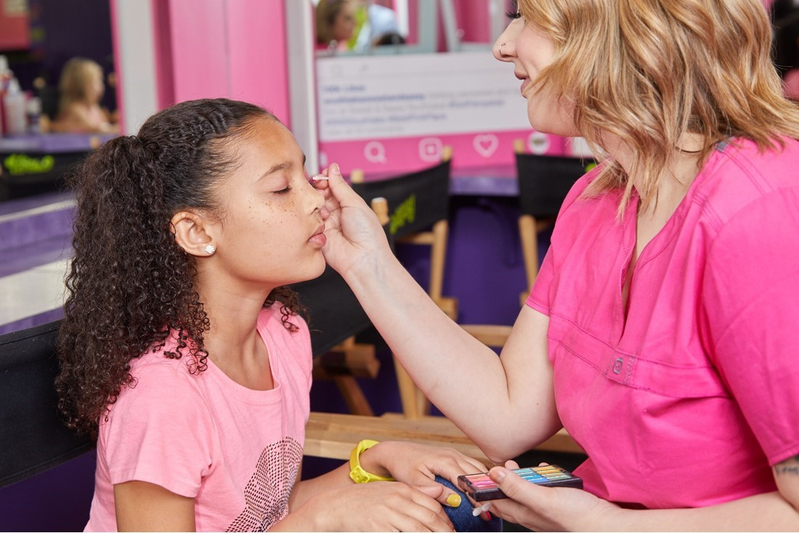
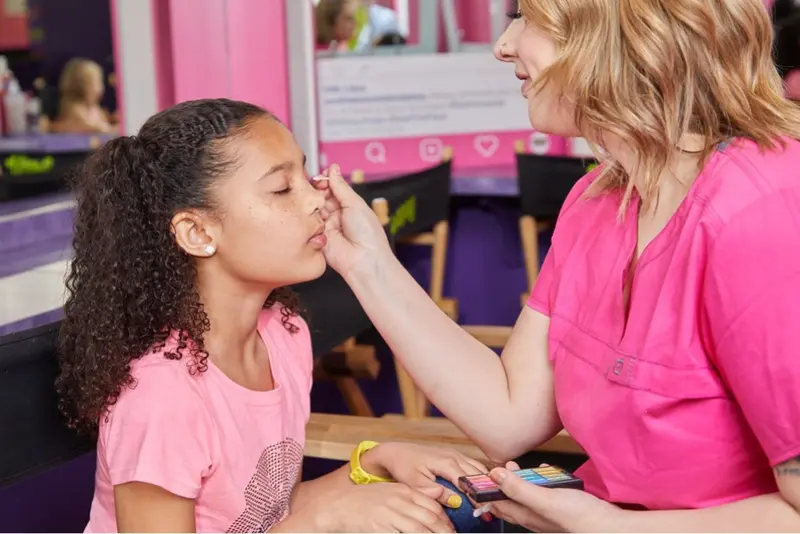
Comprehensive SEO overhaul for production launch
- Add sitemap.xml with all 6 pages
- Add robots.txt with sitemap reference
- Add custom 404.html with redirects for old Wix/legacy URLs
- Add LocalBusiness JSON-LD structured data to homepage (packages, contact, area)
- Add FAQPage JSON-LD structured data to FAQ page (all 8 Q&As)
- Add canonical URLs to all pages
- Add Open Graph tags to packages, treatments, faq, and contact pages
- Trim meta descriptions to under 160 chars on index, about, and treatments
- Compress oversized images (hair-styles 604KB→60KB, makeup 432KB→35KB)

diff --git a/404.html b/404.html
@@ -1,0 +1,104 @@
+<!DOCTYPE html>
+<html lang="en">
+<head>
+  <meta charset="UTF-8">
+  <meta name="viewport" content="width=device-width, initial-scale=1.0">
+  <title>Page Not Found | SPAH — Spa Parties at Home</title>
+  <link rel="preconnect" href="https://fonts.googleapis.com">
+  <link rel="preconnect" href="https://fonts.gstatic.com" crossorigin>
+  <link href="https://fonts.googleapis.com/css2?family=DM+Sans:wght@400;500;600;700&family=Playfair+Display:ital,wght@0,400;0,600;0,700;1,400;1,600;1,700&display=swap" rel="stylesheet">
+  <link rel="stylesheet" href="/css/style.css">
+  <script>
+    // Redirect old Wix and legacy URLs to new pages
+    var redirects = {
+      '/about-spah': '/about.html',
+      '/party-packages': '/packages.html',
+      '/spah-treatments': '/treatments.html',
+      '/spah-crafts': '/treatments.html',
+      '/faqs': '/faq.html',
+      '/testimonials': '/about.html',
+      '/our-service-area': '/about.html',
+      '/team-pics': '/about.html',
+      '/employment-opportunites': '/contact.html',
+      '/after-school-clubs': '/treatments.html',
+      '/asc': '/treatments.html',
+      '/a-la-carte-services': '/packages.html',
+      '/facial-gallery': '/treatments.html',
+      '/hair-gallery': '/treatments.html',
+      '/massage-gallery': '/treatments.html',
+      '/nail-gallery': '/treatments.html',
+      '/craft-photo-gallery': '/treatments.html',
+      '/treatments-photo-gallery': '/treatments.html',
+      '/About-SPAH.html': '/about.html',
+      '/Party-Packages.html': '/packages.html',
+      '/List-of-Services.html': '/treatments.html',
+      '/Contact-Us-Employment-Opps.html': '/contact.html',
+      '/Testimonials.html': '/about.html',
+      '/Photo-Gallery.html': '/treatments.html',
+      '/Hostess-Tips.html': '/faq.html',
+      '/Home.html': '/',
+      '/default.html': '/',
+      '/SPAH-Home.html': '/'
+    };
+    var path = window.location.pathname.replace(/\/$/, '');
+    if (redirects[path]) {
+      window.location.replace(redirects[path]);
+    }
+  </script>
+</head>
+<body>
+  <nav class="navbar scrolled">
+    <div class="container">
+      <a href="/" class="nav-logo"><img src="/images/logo.webp" alt="SPAH - Spa Parties at Home"></a>
+      <ul class="nav-links">
+        <li><a href="/">Home</a></li>
+        <li><a href="/packages.html">Packages</a></li>
+        <li><a href="/treatments.html">Treatments & Crafts</a></li>
+        <li><a href="/about.html">About Us</a></li>
+        <li><a href="/faq.html">FAQs</a></li>
+        <li><a href="/contact.html">Contact</a></li>
+        <li><a href="/contact.html" class="nav-cta">Book a Party</a></li>
+      </ul>
+      <button class="hamburger" aria-label="Toggle menu">
+        <span></span><span></span><span></span>
+      </button>
+    </div>
+  </nav>
+  <div class="nav-overlay"></div>
+
+  <main>
+    <section class="page-hero">
+      <div class="container">
+        <h1>Page Not Found</h1>
+        <p>Oops! This page doesn't exist. Let's get you back to the party.</p>
+      </div>
+      <div class="float-element float-1"></div>
+      <div class="float-element float-2"></div>
+      <div class="float-element float-3"></div>
+      <div class="hero-fade"></div>
+    </section>
+
+    <section class="section">
+      <div class="container" style="text-align: center; max-width: 600px;">
+        <h2>Looking for something?</h2>
+        <p style="margin-bottom: 2rem;">The page you're looking for may have moved. Try one of these instead:</p>
+        <div style="display: flex; flex-direction: column; gap: 1rem; align-items: center;">
+          <a href="/" class="btn btn-primary btn-lg">Go to Homepage</a>
+          <a href="/packages.html" class="btn btn-secondary">View Packages</a>
+          <a href="/contact.html" class="btn btn-secondary">Contact Us</a>
+        </div>
+      </div>
+    </section>
+  </main>
+
+  <footer class="footer">
+    <div class="container">
+      <div class="footer-bottom">
+        <p>&copy; 2026 SPAH — Spa Parties at Home. All rights reserved.</p>
+      </div>
+    </div>
+  </footer>
+
+  <script src="/js/main.js"></script>
+</body>
+</html>

diff --git a/faq.html b/faq.html
@@ -4,11 +4,88 @@
   <meta charset="UTF-8">
   <meta name="viewport" content="width=device-width, initial-scale=1.0">
   <meta name="description" content="Frequently asked questions about SPAH — Spa Parties at Home. Learn about booking, party sizes, setup, payments, and more.">
+  <meta property="og:title" content="FAQs | SPAH — Spa Parties at Home">
+  <meta property="og:description" content="Everything you need to know about planning your SPAH party in Westchester County, NY.">
+  <meta property="og:type" content="website">
+  <meta property="og:url" content="https://www.spahparty.com/faq.html">
+  <link rel="canonical" href="https://www.spahparty.com/faq.html">
   <title>FAQs | SPAH — Spa Parties at Home</title>
   <link rel="preconnect" href="https://fonts.googleapis.com">
   <link rel="preconnect" href="https://fonts.gstatic.com" crossorigin>
   <link href="https://fonts.googleapis.com/css2?family=DM+Sans:ital,opsz,wght@0,9..40,400;0,9..40,500;0,9..40,600;0,9..40,700;1,9..40,400&family=Playfair+Display:ital,wght@0,400;0,600;0,700;1,400;1,600&display=swap" rel="stylesheet">
   <link rel="stylesheet" href="css/style.css">
+  <script type="application/ld+json">
+  {
+    "@context": "https://schema.org",
+    "@type": "FAQPage",
+    "mainEntity": [
+      {
+        "@type": "Question",
+        "name": "Is there a minimum number of guests required?",
+        "acceptedAnswer": {
+          "@type": "Answer",
+          "text": "SPAH party package pricing is based on up to eight guests, including the host. There is an additional charge for guests after the first eight. Our average party size is 8–12 guests. Special accommodations can be made for smaller groups."
+        }
+      },
+      {
+        "@type": "Question",
+        "name": "How much space do I need to host a party?",
+        "acceptedAnswer": {
+          "@type": "Answer",
+          "text": "We set up our stations in an average-size living room, basement playroom, or a combination of rooms. Facials are done on massage tables; however, hair and nail stations require less room."
+        }
+      },
+      {
+        "@type": "Question",
+        "name": "Can I host a party outdoors?",
+        "acceptedAnswer": {
+          "@type": "Answer",
+          "text": "Yes! We love doing parties in your yard, patio, or deck."
+        }
+      },
+      {
+        "@type": "Question",
+        "name": "Do you need to use any of my furniture?",
+        "acceptedAnswer": {
+          "@type": "Answer",
+          "text": "No, we bring all equipment and products necessary to do our treatments and crafts."
+        }
+      },
+      {
+        "@type": "Question",
+        "name": "What else do you provide?",
+        "acceptedAnswer": {
+          "@type": "Answer",
+          "text": "We bring a robe for each guest to wear during the party, music and a speaker, battery-operated candles, and magazines. We also create a relaxation area using comfortable saucer chairs that guests can enjoy in between treatments."
+        }
+      },
+      {
+        "@type": "Question",
+        "name": "What types of payment do you accept?",
+        "acceptedAnswer": {
+          "@type": "Answer",
+          "text": "We accept Venmo, Zelle, cash, and checks. We appreciate any gratuities to be paid in cash. A signed contract and a $150 deposit are required to save a date."
+        }
+      },
+      {
+        "@type": "Question",
+        "name": "How far in advance should I book?",
+        "acceptedAnswer": {
+          "@type": "Answer",
+          "text": "We recommend booking your SPAH party a month or more in advance to ensure availability, although we can sometimes accommodate last-minute requests."
+        }
+      },
+      {
+        "@type": "Question",
+        "name": "What age range is SPAH best for?",
+        "acceptedAnswer": {
+          "@type": "Answer",
+          "text": "Our parties are designed primarily for kids ages 6–12, but we can accommodate tweens and teens as well. Contact us to discuss your group!"
+        }
+      }
+    ]
+  }
+  </script>
 </head>
 <body>
 

diff --git a/index.html b/index.html
@@ -3,11 +3,12 @@
 <head>
   <meta charset="UTF-8">
   <meta name="viewport" content="width=device-width, initial-scale=1.0">
-  <meta name="description" content="SPAH - Spa Parties at Home. Westchester's premier spa-themed party planner for kids since 2010. We bring the spa to you with treatments, crafts, and 90 minutes of pampering fun.">
+  <meta name="description" content="SPAH — Westchester's premier kids' spa party planner since 2010. We bring treatments, crafts, and 90 minutes of pampering fun right to your home.">
   <meta property="og:title" content="SPAH - Spa Parties at Home | Westchester's Premier Spa Party Planners">
   <meta property="og:description" content="We create a fun, calm space that inspires conversation and creativity. Spa treatments, creative crafts, and unforgettable memories for ages 6-12+.">
   <meta property="og:type" content="website">
   <meta property="og:url" content="https://spahparty.com">
+  <link rel="canonical" href="https://www.spahparty.com/">
   <title>SPAH — Spa Parties at Home | Westchester's Premier Spa Party Planners</title>
 
   <!-- Google Fonts -->
@@ -17,6 +18,63 @@
 
   <!-- Styles -->
   <link rel="stylesheet" href="css/style.css">
+
+  <script type="application/ld+json">
+  {
+    "@context": "https://schema.org",
+    "@type": "LocalBusiness",
+    "name": "SPAH — Spa Parties at Home",
+    "description": "Westchester's premier spa-themed event planner for kids since 2010. Mobile spa parties with treatments, crafts, and pampering fun.",
+    "url": "https://www.spahparty.com",
+    "telephone": "+1-914-907-1330",
+    "email": "spahparty@gmail.com",
+    "founder": {
+      "@type": "Person",
+      "name": "Julie Sullivan"
+    },
+    "foundingDate": "2010",
+    "address": {
+      "@type": "PostalAddress",
+      "addressLocality": "Tuckahoe",
+      "addressRegion": "NY",
+      "addressCountry": "US"
+    },
+    "areaServed": {
+      "@type": "AdministrativeArea",
+      "name": "Westchester County, NY"
+    },
+    "priceRange": "$495-$700",
+    "openingHours": "Mo-Su",
+    "sameAs": [],
+    "hasOfferCatalog": {
+      "@type": "OfferCatalog",
+      "name": "SPAH Party Packages",
+      "itemListElement": [
+        {
+          "@type": "Offer",
+          "name": "Create & Chill Party",
+          "description": "1 spa treatment + 2 creative crafts for up to 8 guests. 90 minutes of SPAH.",
+          "price": "495",
+          "priceCurrency": "USD"
+        },
+        {
+          "@type": "Offer",
+          "name": "Classic SPAH Party",
+          "description": "2 spa treatments + 1 creative craft for up to 8 guests. 90 minutes of SPAH.",
+          "price": "595",
+          "priceCurrency": "USD"
+        },
+        {
+          "@type": "Offer",
+          "name": "Deluxe SPAH Party",
+          "description": "3 spa treatments + 1 creative craft for up to 8 guests. 90 minutes of SPAH.",
+          "price": "700",
+          "priceCurrency": "USD"
+        }
+      ]
+    }
+  }
+  </script>
 </head>
 <body>
 

diff --git a/treatments.html b/treatments.html
@@ -3,7 +3,12 @@
 <head>
   <meta charset="UTF-8">
   <meta name="viewport" content="width=device-width, initial-scale=1.0">
-  <meta name="description" content="Explore SPAH's spa treatments, creative crafts, and after-school programs. Manicures, pedicures, facials, hair styles, massage, makeup, lip balm, bath salts, and more.">
+  <meta name="description" content="SPAH spa treatments and creative crafts — manicures, pedicures, facials, hair styling, lip balm, bath salts, and more for kids' parties.">
+  <meta property="og:title" content="Treatments & Crafts | SPAH — Spa Parties at Home">
+  <meta property="og:description" content="Spa treatments and creative crafts for kids' parties — manicures, facials, hair styling, lip balm, bath salts, and more.">
+  <meta property="og:type" content="website">
+  <meta property="og:url" content="https://www.spahparty.com/treatments.html">
+  <link rel="canonical" href="https://www.spahparty.com/treatments.html">
   <title>Treatments & Crafts | SPAH - Spa Parties at Home</title>
 
   <!-- Google Fonts -->

diff --git a/packages.html b/packages.html
@@ -4,6 +4,11 @@
   <meta charset="UTF-8">
   <meta name="viewport" content="width=device-width, initial-scale=1.0">
   <meta name="description" content="SPAH party packages — Create &amp; Chill, Classic SPAH, and Deluxe SPAH. Spa-themed kids' parties in Westchester County, NY.">
+  <meta property="og:title" content="Party Packages | SPAH — Spa Parties at Home">
+  <meta property="og:description" content="Three spa party packages for kids in Westchester — Create & Chill, Classic SPAH, and Deluxe SPAH. Starting at $495.">
+  <meta property="og:type" content="website">
+  <meta property="og:url" content="https://www.spahparty.com/packages.html">
+  <link rel="canonical" href="https://www.spahparty.com/packages.html">
   <title>Party Packages | SPAH — Spa Parties at Home</title>
   <link rel="preconnect" href="https://fonts.googleapis.com">
   <link rel="preconnect" href="https://fonts.gstatic.com" crossorigin>

diff --git a/about.html b/about.html
@@ -3,10 +3,11 @@
 <head>
   <meta charset="UTF-8">
   <meta name="viewport" content="width=device-width, initial-scale=1.0">
-  <meta name="description" content="Meet the SPAH team — Westchester's premier spa party planners for kids since 2010. Learn about our story, our passion, and the people behind every unforgettable party.">
+  <meta name="description" content="Meet Julie Sullivan and the SPAH team — Westchester's favorite kids' spa party planners since 2010. Our story, our passion, our crew.">
   <meta property="og:title" content="About Us | SPAH - Spa Parties at Home">
   <meta property="og:description" content="Meet the team behind Westchester's favorite kids' spa parties.">
   <meta property="og:type" content="website">
+  <link rel="canonical" href="https://www.spahparty.com/about.html">
   <title>About Us | SPAH — Spa Parties at Home</title>
 
   <!-- Google Fonts -->

diff --git a/contact.html b/contact.html
@@ -4,6 +4,11 @@
   <meta charset="UTF-8">
   <meta name="viewport" content="width=device-width, initial-scale=1.0">
   <meta name="description" content="Contact SPAH — Spa Parties at Home. Call, text, or email us to book your kids' spa party in Westchester County, NY.">
+  <meta property="og:title" content="Contact SPAH — Spa Parties at Home">
+  <meta property="og:description" content="Book your kids' spa party in Westchester County, NY. Call, text, or email SPAH today.">
+  <meta property="og:type" content="website">
+  <meta property="og:url" content="https://www.spahparty.com/contact.html">
+  <link rel="canonical" href="https://www.spahparty.com/contact.html">
   <title>Contact | SPAH — Spa Parties at Home</title>
   <link rel="preconnect" href="https://fonts.googleapis.com">
   <link rel="preconnect" href="https://fonts.gstatic.com" crossorigin>
